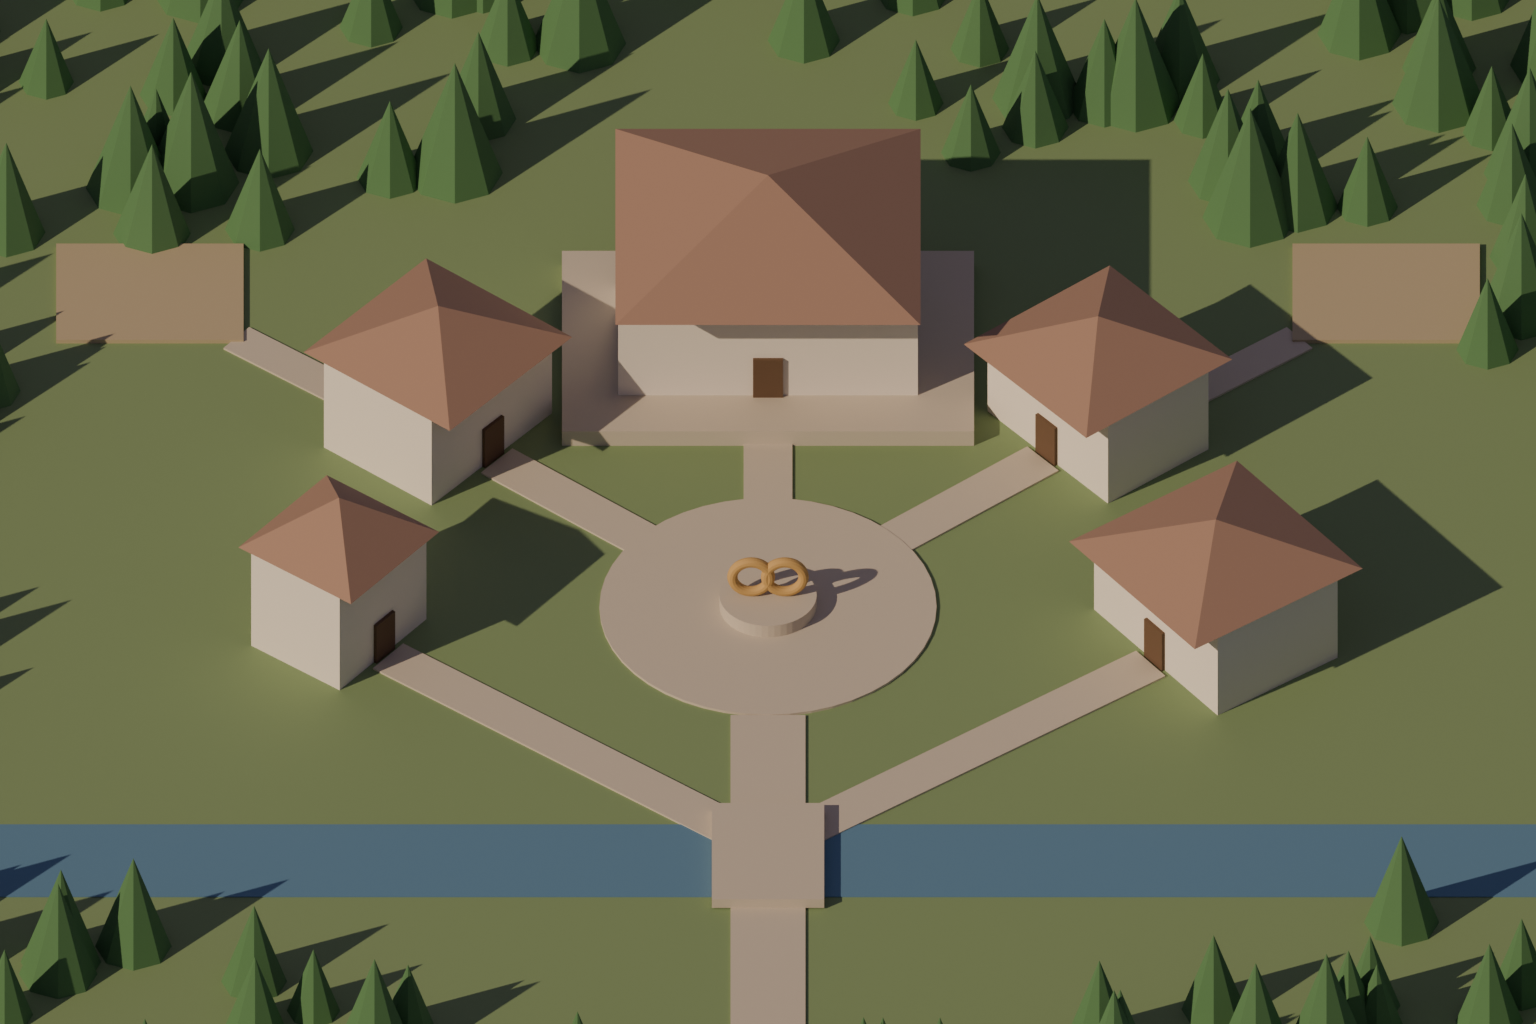
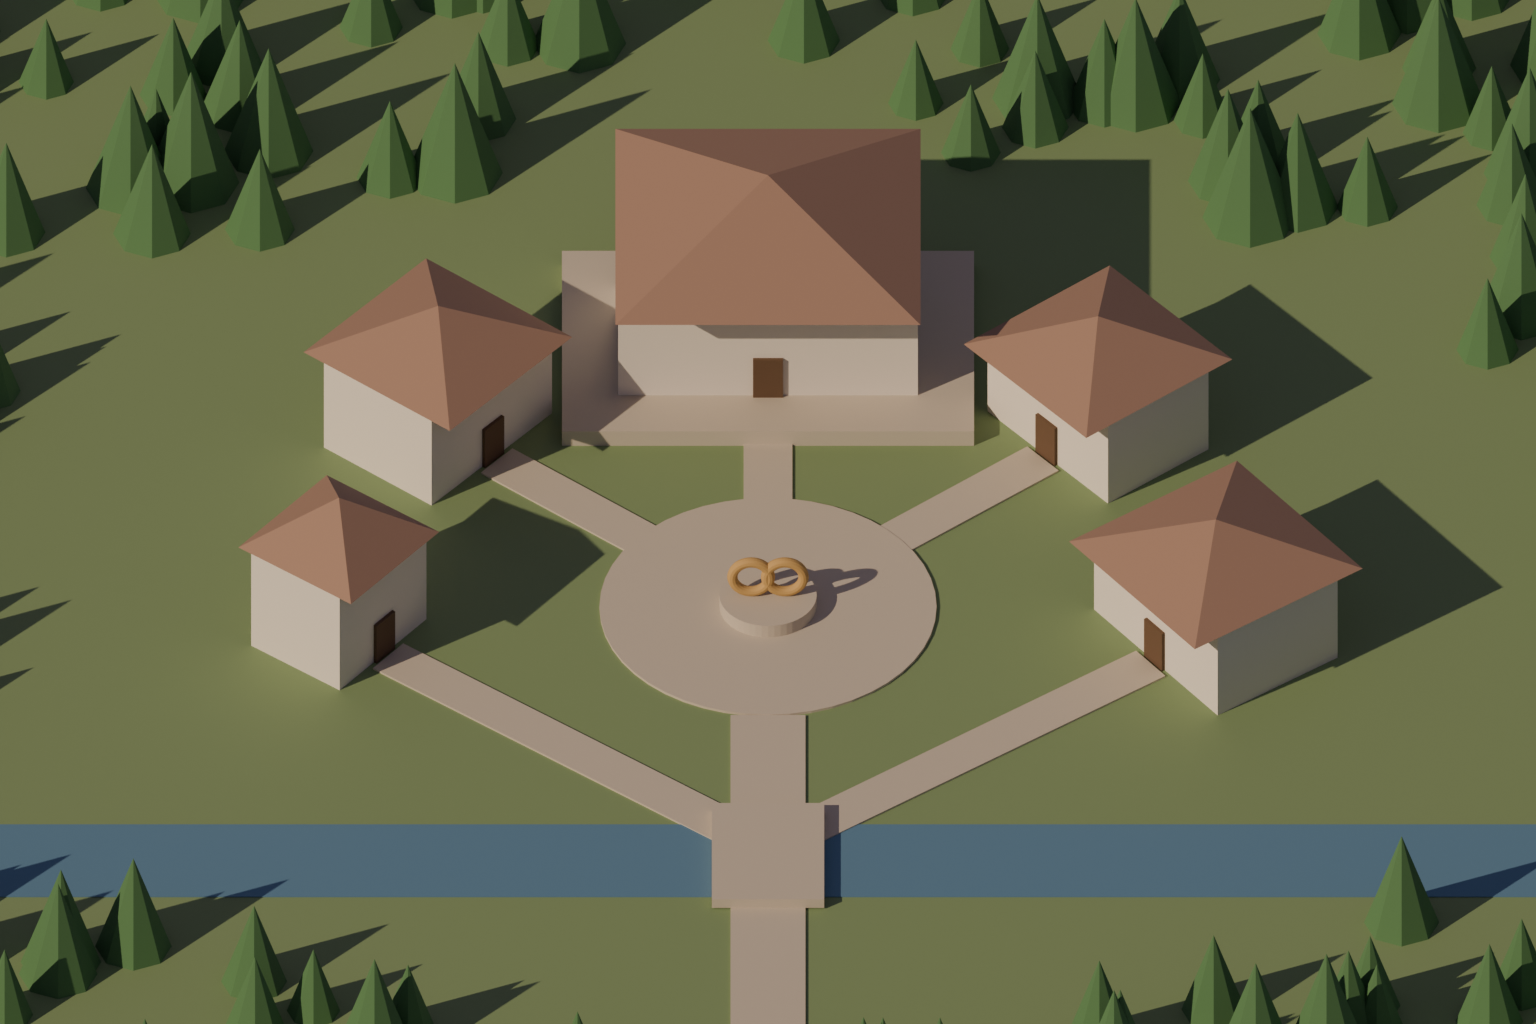
Village layout: no future plots
Claude-Session: https://claude.ai/code/session_01LEzX9WUx8sWcSwwRyLeaEz

Changed region(s): [[0.0312, 0.2188, 0.2188, 0.4062], [0.7812, 0.2188, 0.9688, 0.4062]]

diff --git a/web/art/factory/village/blockout/village.py b/web/art/factory/village/blockout/village.py
@@ -58,10 +58,6 @@ for name, ang, dist, w, d, h in B:
     path((dx + fx * 0.3, dy + fy * 0.3), (end.x, end.y))
     label(name, cx, cy, lift + h * 1.5 + 1.5)
 
-# expansion plots up the hill (they face the plaza too)
-for x, y in [(-33, 26), (33, 26)]:
-    box(x, y, 0, 10, 8, 0.25, M['plot']); label('FUTURE PLOT', x, y, 1.0)
-    path((x * 0.62, y * 0.62), (x * 0.86, y * 0.86), 2.2)
 
 # main road, stream, bridge
 path((0, -9), (0, -60), 4)

diff --git a/docs/village-plan.md b/docs/village-plan.md
@@ -26,8 +26,7 @@ of the main road, everything else facing the middle.
   road comes in. Their doors show clearly to the camera.
 - **The plaza** with the infinity sculpture in the middle. The burn tally sits on its plinth.
 - **Nothing with a door goes below the plaza.** That area is the road in, the bridge, the stream and trees.
-- **Two future plots** up the hill behind Trophy Hall and Arcade, drawn as dressed construction sites (scaffolding,
-  crates), not "coming soon" signs. A later district can go across the stream with a second footbridge.
+- **No empty plots.** A future building gets designed into the layout when it's needed, with its own path.
 - **Sizes by importance:** Workshop 1.0, Marketplace 0.65, Arcade and Trophy Hall 0.6, Morning Wood 0.45.
 - **The village fills the screen.** The river and the bridge into town run along the bottom; you cross and the road
   splits three ways (Morning Wood, the plaza and Workshop, the Marketplace). Scenery is minimal: a band of trees along
@@ -38,7 +37,7 @@ Door rules for this camera (from now on, for every building):
 2. Left of the main road: the door is on the building's right-front face. Right of it: on its left-front face.
 3. Every door has a path to the plaza, and nothing tall stands in front of it.
 4. Buildings further back sit higher (the terrace), so their doors clear the roofs in front.
-5. Future plots follow the same rules.
+5. Any building added later follows the same rules.
 
 ## The art pipeline
 
@@ -68,11 +67,11 @@ separately on grey and paste them in; that's what gave us mismatched light and g
 
 **Then Claude finishes it:**
 1. Cut each building out using the ID mask, with clean edges and no halos.
-2. Make the empty-ground version behind each building (that's also a future plot's look).
+2. Make the empty-ground version behind each building.
 3. Upscale, apply one colour grade to every layer, and export AVIF/WebP in screen-size tiers.
 4. Write a small data file: each building's outline, door point, sign position and link.
 
-**Adding a building later:** add a box on a plot in the blockout, render its masks, edit it into the current scene,
+**Adding a building later:** add a box to the blockout where it fits, with a path, render its masks, edit it into the current scene,
 grade it and cut it. One new layer and a few lines of data; nothing else changes.
 
 **Seasons (snow, festival):** a light edit over the finished village with the same guides. Outlines stay put, so the
